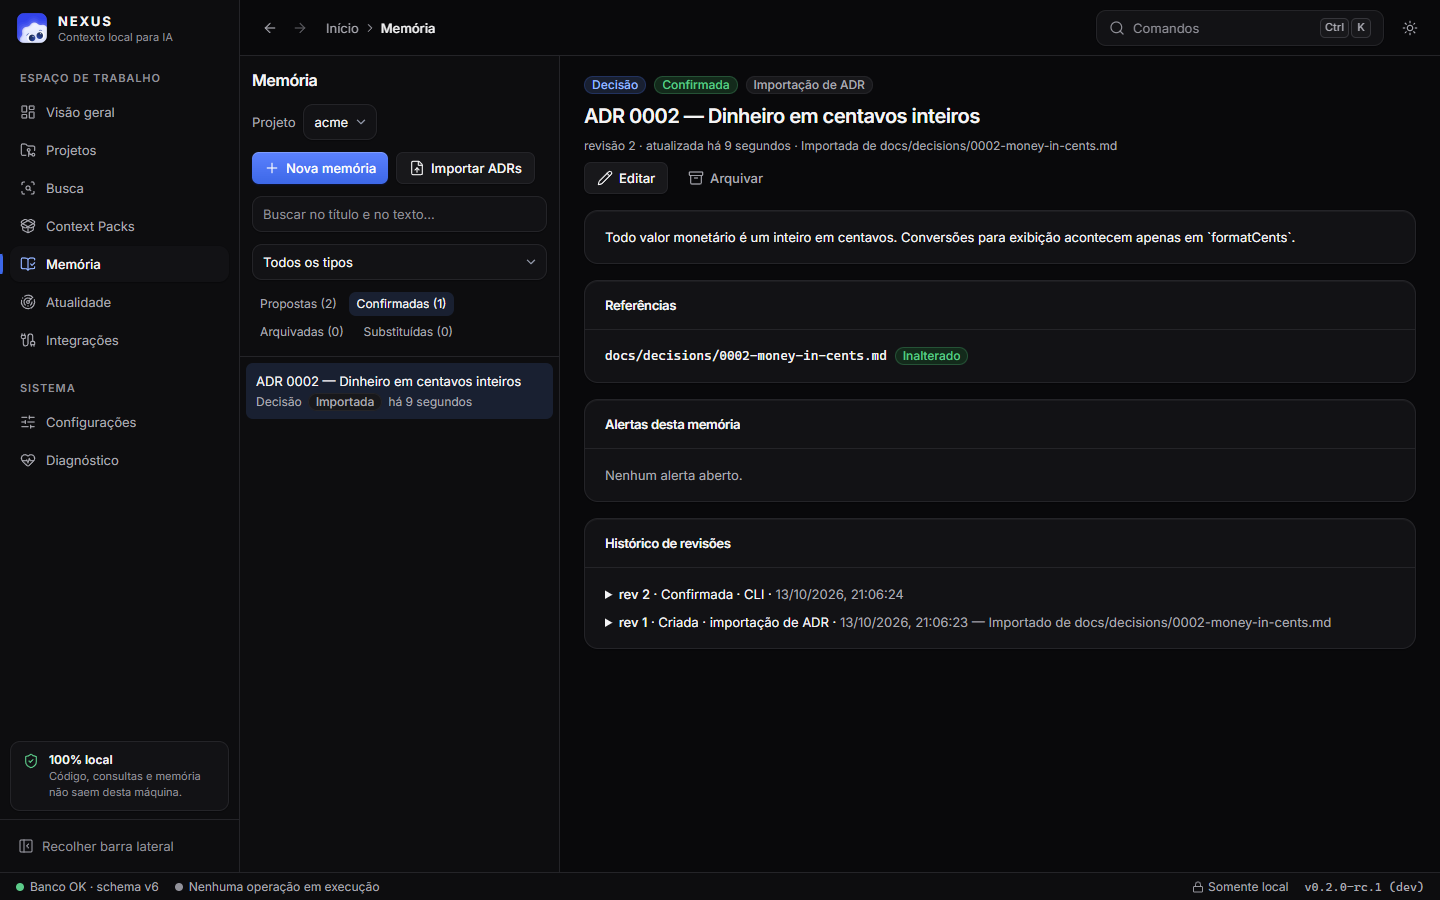
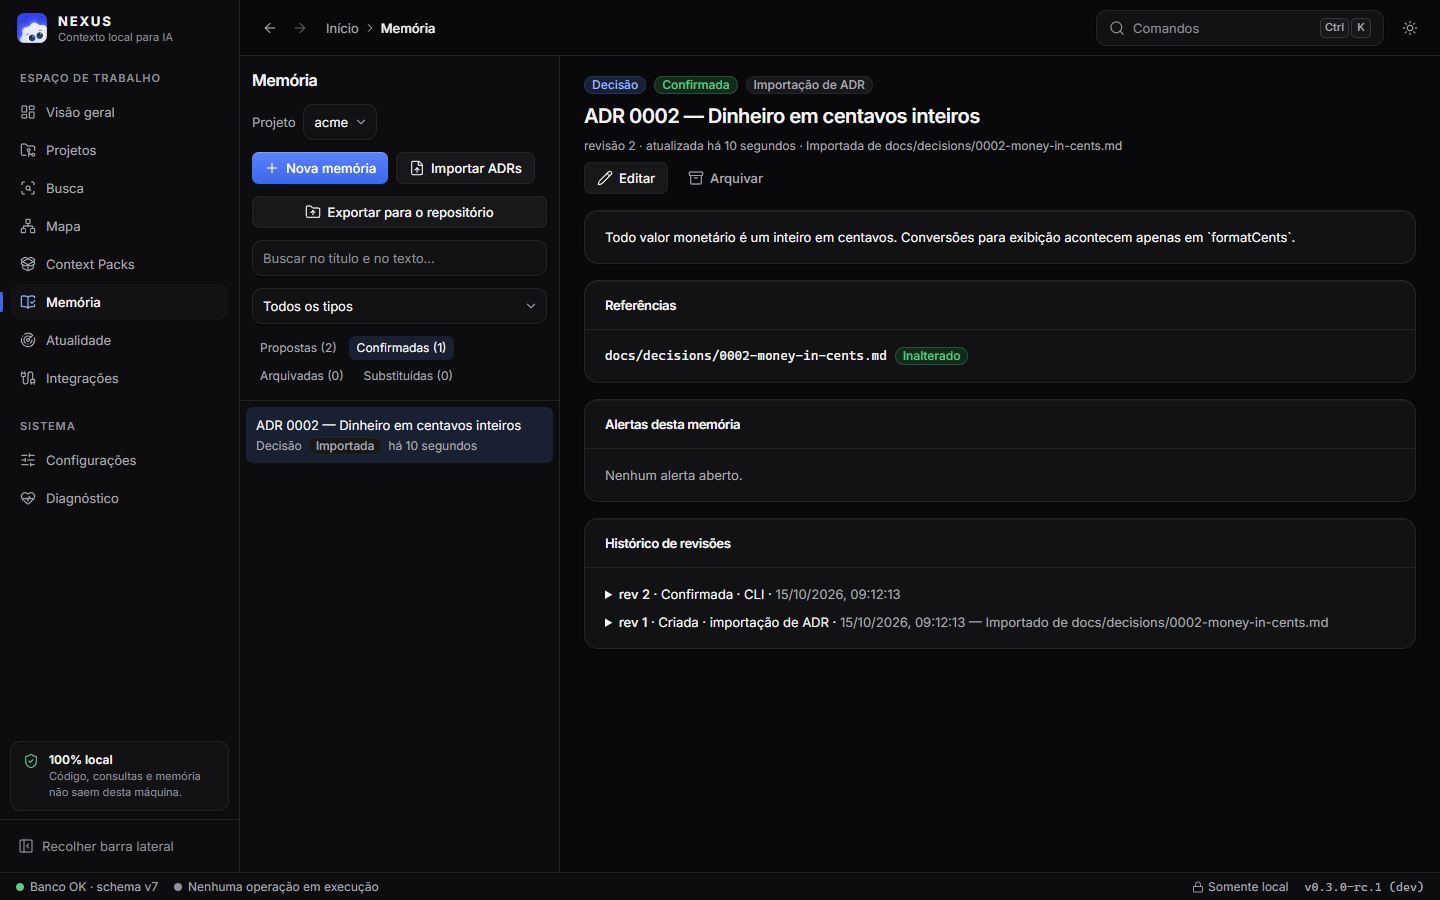
chore(release): prepara a v0.3.0-rc.1
- versão 0.3.0-rc.1 no workspace Rust, tauri.conf e pacotes do desktop, site e bot
- CHANGELOG: seção 0.3.0 (histórico do git, Mapa, memória compartilhada, 5 linguagens,
  docs no site, bot; schema v7, nova análise na primeira indexação, git opcional)
- capturas do README regeneradas, com a tela Mapa nova
- README: estado atual v0.3 (atualização automática já não é pendência)
- roadmap: etapa 8

diff --git a/apps/desktop/e2e-screens/capture.spec.ts b/apps/desktop/e2e-screens/capture.spec.ts
@@ -104,6 +104,12 @@ test("capturas do README", async () => {
   await page.waitForTimeout(500);
   await shot(page, "projeto");
 
+  await open(page, "Mapa");
+  await expect(page.getByRole("complementary", { name: /Mais centrais/ })).toBeVisible();
+  // O layout de forças para sozinho quando estabiliza.
+  await page.waitForTimeout(3000);
+  await shot(page, "mapa");
+
   await open(page, "Integrações");
   await shot(page, "integracoes");
 

diff --git a/CHANGELOG.md b/CHANGELOG.md
@@ -2,6 +2,28 @@
 
 Cada versão da NEXUS, da mais nova para a mais antiga. A seção de cada versão vira a descrição da release no GitHub (`scripts/release-notes.mjs`).
 
+## 0.3.0
+
+### Destaques
+
+- **Histórico do git.** Para cada arquivo, os últimos commits (seguindo renomeações) e, num trecho, quem mudou aquelas linhas. Aparece na prévia da busca, numa seção "Mudanças recentes" dos Context Packs e na ferramenta MCP nova `get_file_history`. Usa o `git` instalado, só para leitura e com os comandos do repositório desligados; sem `git`, o app avisa e segue sem histórico.
+- **Mapa do código.** Uma tela nova mostra quem importa quem, com os arquivos mais centrais em destaque, filtro por pasta e modo agrupado. Clique num arquivo para abri-lo na Busca. A tabela "Mais centrais" traz os mesmos números para quem prefere ler.
+- **Memória compartilhada pelo repositório.** Em Memória → "Exportar para o repositório", as memórias confirmadas viram arquivos em `.nexus/memory/`, com prévia antes de gravar. Quem clonar o projeto recebe essas memórias como **propostas** para revisar, nunca como decisões prontas.
+- **Kotlin, PHP, Ruby, C e C++.** Agora são 12 linguagens: funções, classes, métodos e quem importa quem, inclusive pacotes Kotlin, PSR-4 do PHP, `require` do Ruby e `#include` com pastas `include/`.
+- **Documentação no site.** Páginas de instalação, de como conectar cada agente, de privacidade e de novidades.
+
+### Também
+
+- A indexação espera alguns segundos quando o projeto está ocupado por um instante, em vez de recusar na hora.
+- Bot do Discord: moderação (automod conservador e `/mod`) e gestão do servidor (boas-vindas, cargos por botão e tickets), tudo opcional e desligado até ser configurado.
+
+### Antes de atualizar
+
+- O banco local passa para a **versão 7** do schema (origem das memórias compartilhadas). Um backup é feito antes, automaticamente, na pasta `backups/` dos dados. Depois da atualização, a v0.2 não abre mais esse banco.
+- Na primeira indexação depois de atualizar, os arquivos são analisados de novo uma vez (por causa das novas linguagens).
+- O histórico do git precisa do `git` instalado no computador. Sem ele, todo o resto funciona normalmente.
+- Os pacotes continuam **não assinados**: veja como abrir em cada sistema na página [Instalar](https://eduardoxdev.github.io/Nexus/docs/instalar/).
+
 ## 0.2.0
 
 ### Destaques

diff --git a/README.md b/README.md
@@ -6,13 +6,15 @@
 
 O NEXUS é um aplicativo desktop (Windows primeiro) que indexa os projetos que você autorizar, busca código e documentação com **evidências verificáveis** e compila **Context Packs** para tarefas — entregues a você, à CLI `nexus` e a agentes via **MCP**. Tudo roda localmente: nenhum código, caminho, consulta ou memória sai da sua máquina.
 
-> **Estado atual: Fases 0–7 concluídas.** Indexação incremental sem segredos nem binários, busca explicável em português ou inglês, Context Packs verificados por hash, memória do projeto confirmada por você, alertas de atualidade e contradições, análise de código (TS/JS, Python, Rust, Go, Java, C#, Kotlin, PHP, Ruby, C e C++) com grafo de dependências, CLI e servidor MCP para agentes. **Pendentes:** assinatura de código e atualização automática — veja o [roadmap](docs/roadmap.md).
+> **Estado atual: v0.3.** Indexação incremental sem segredos nem binários, busca explicável em português ou inglês, Context Packs verificados por hash, memória do projeto confirmada por você (e compartilhável pelo repositório), alertas de atualidade e contradições, análise de código (TS/JS, Python, Rust, Go, Java, C#, Kotlin, PHP, Ruby, C e C++) com mapa de dependências, histórico do git, CLI e servidor MCP para agentes, atualização automática com permissão. Windows, Linux e macOS. **Pendente:** assinatura de código — veja o [roadmap](docs/roadmap.md).
 
 ![Visão geral do NEXUS: indicadores, projetos, operações e sistema](docs/assets/visao-geral-escuro.png)
 
 ![Busca com motivos de relevância e prévia verificada](docs/assets/busca-com-previa.png)
 
 ![Context Pack com arquivos, testes, decisões e fontes](docs/assets/context-pack.png)
+
+![Mapa do código: quem importa quem, com os arquivos mais centrais em destaque](docs/assets/mapa.png)
 
 <table>
 <tr>

diff --git a/docs/roadmap.md b/docs/roadmap.md
@@ -244,6 +244,12 @@ Etapa 7 — site com documentação:
 - [x] Markdown → React próprio (sem dependência nova e sem HTML cru); links relativos do repositório viram links para o GitHub.
 - [x] Testes: um `h1` por página, menu da documentação, todos os links levam a uma página, seção ou arquivo que existe.
 
+Etapa 8 — release v0.3.0:
+
+- [x] Versão `0.3.0-rc.1`, seção 0.3.0 no CHANGELOG (schema v7, nova análise na primeira indexação, `git` opcional) e capturas novas (inclui o Mapa).
+- [ ] `v0.3.0-rc.1` publicada e atualização testada a partir da 0.2.0.
+- [ ] `v0.3.0` final publicada e anunciada pelo bot.
+
 ## Riscos
 
 | Risco                                             | Impacto                       | Mitigação                                                               |
